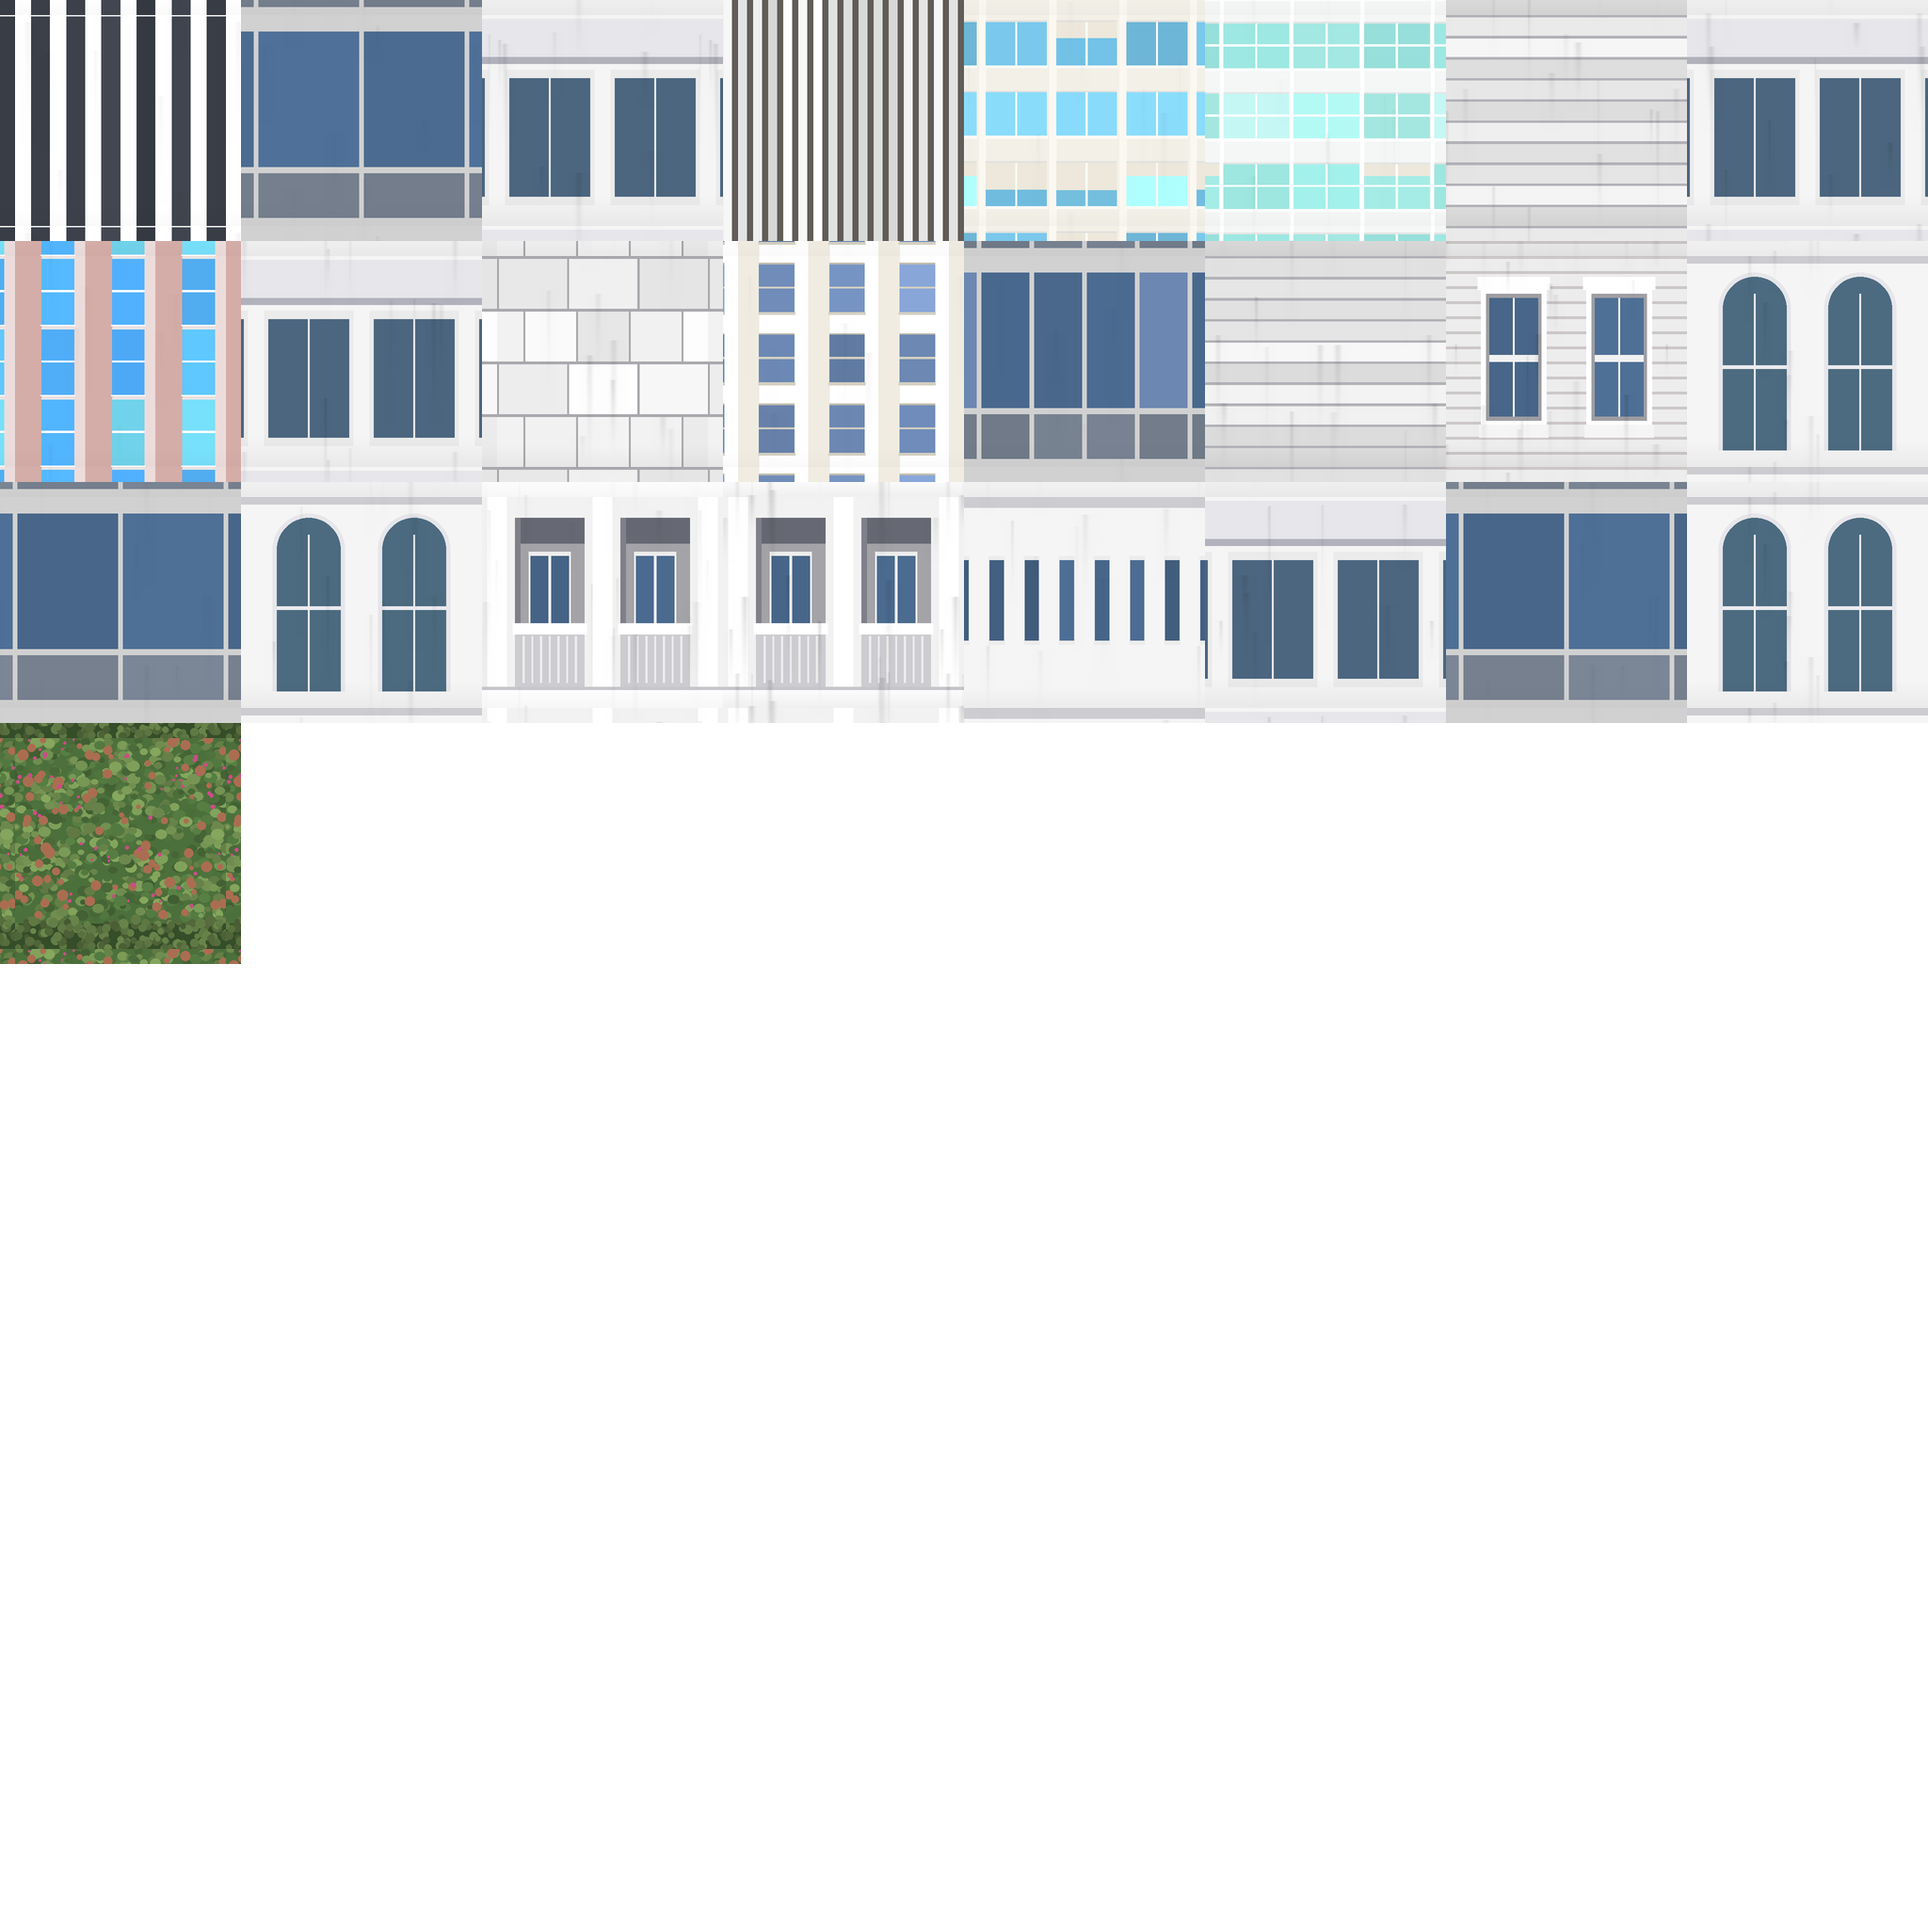
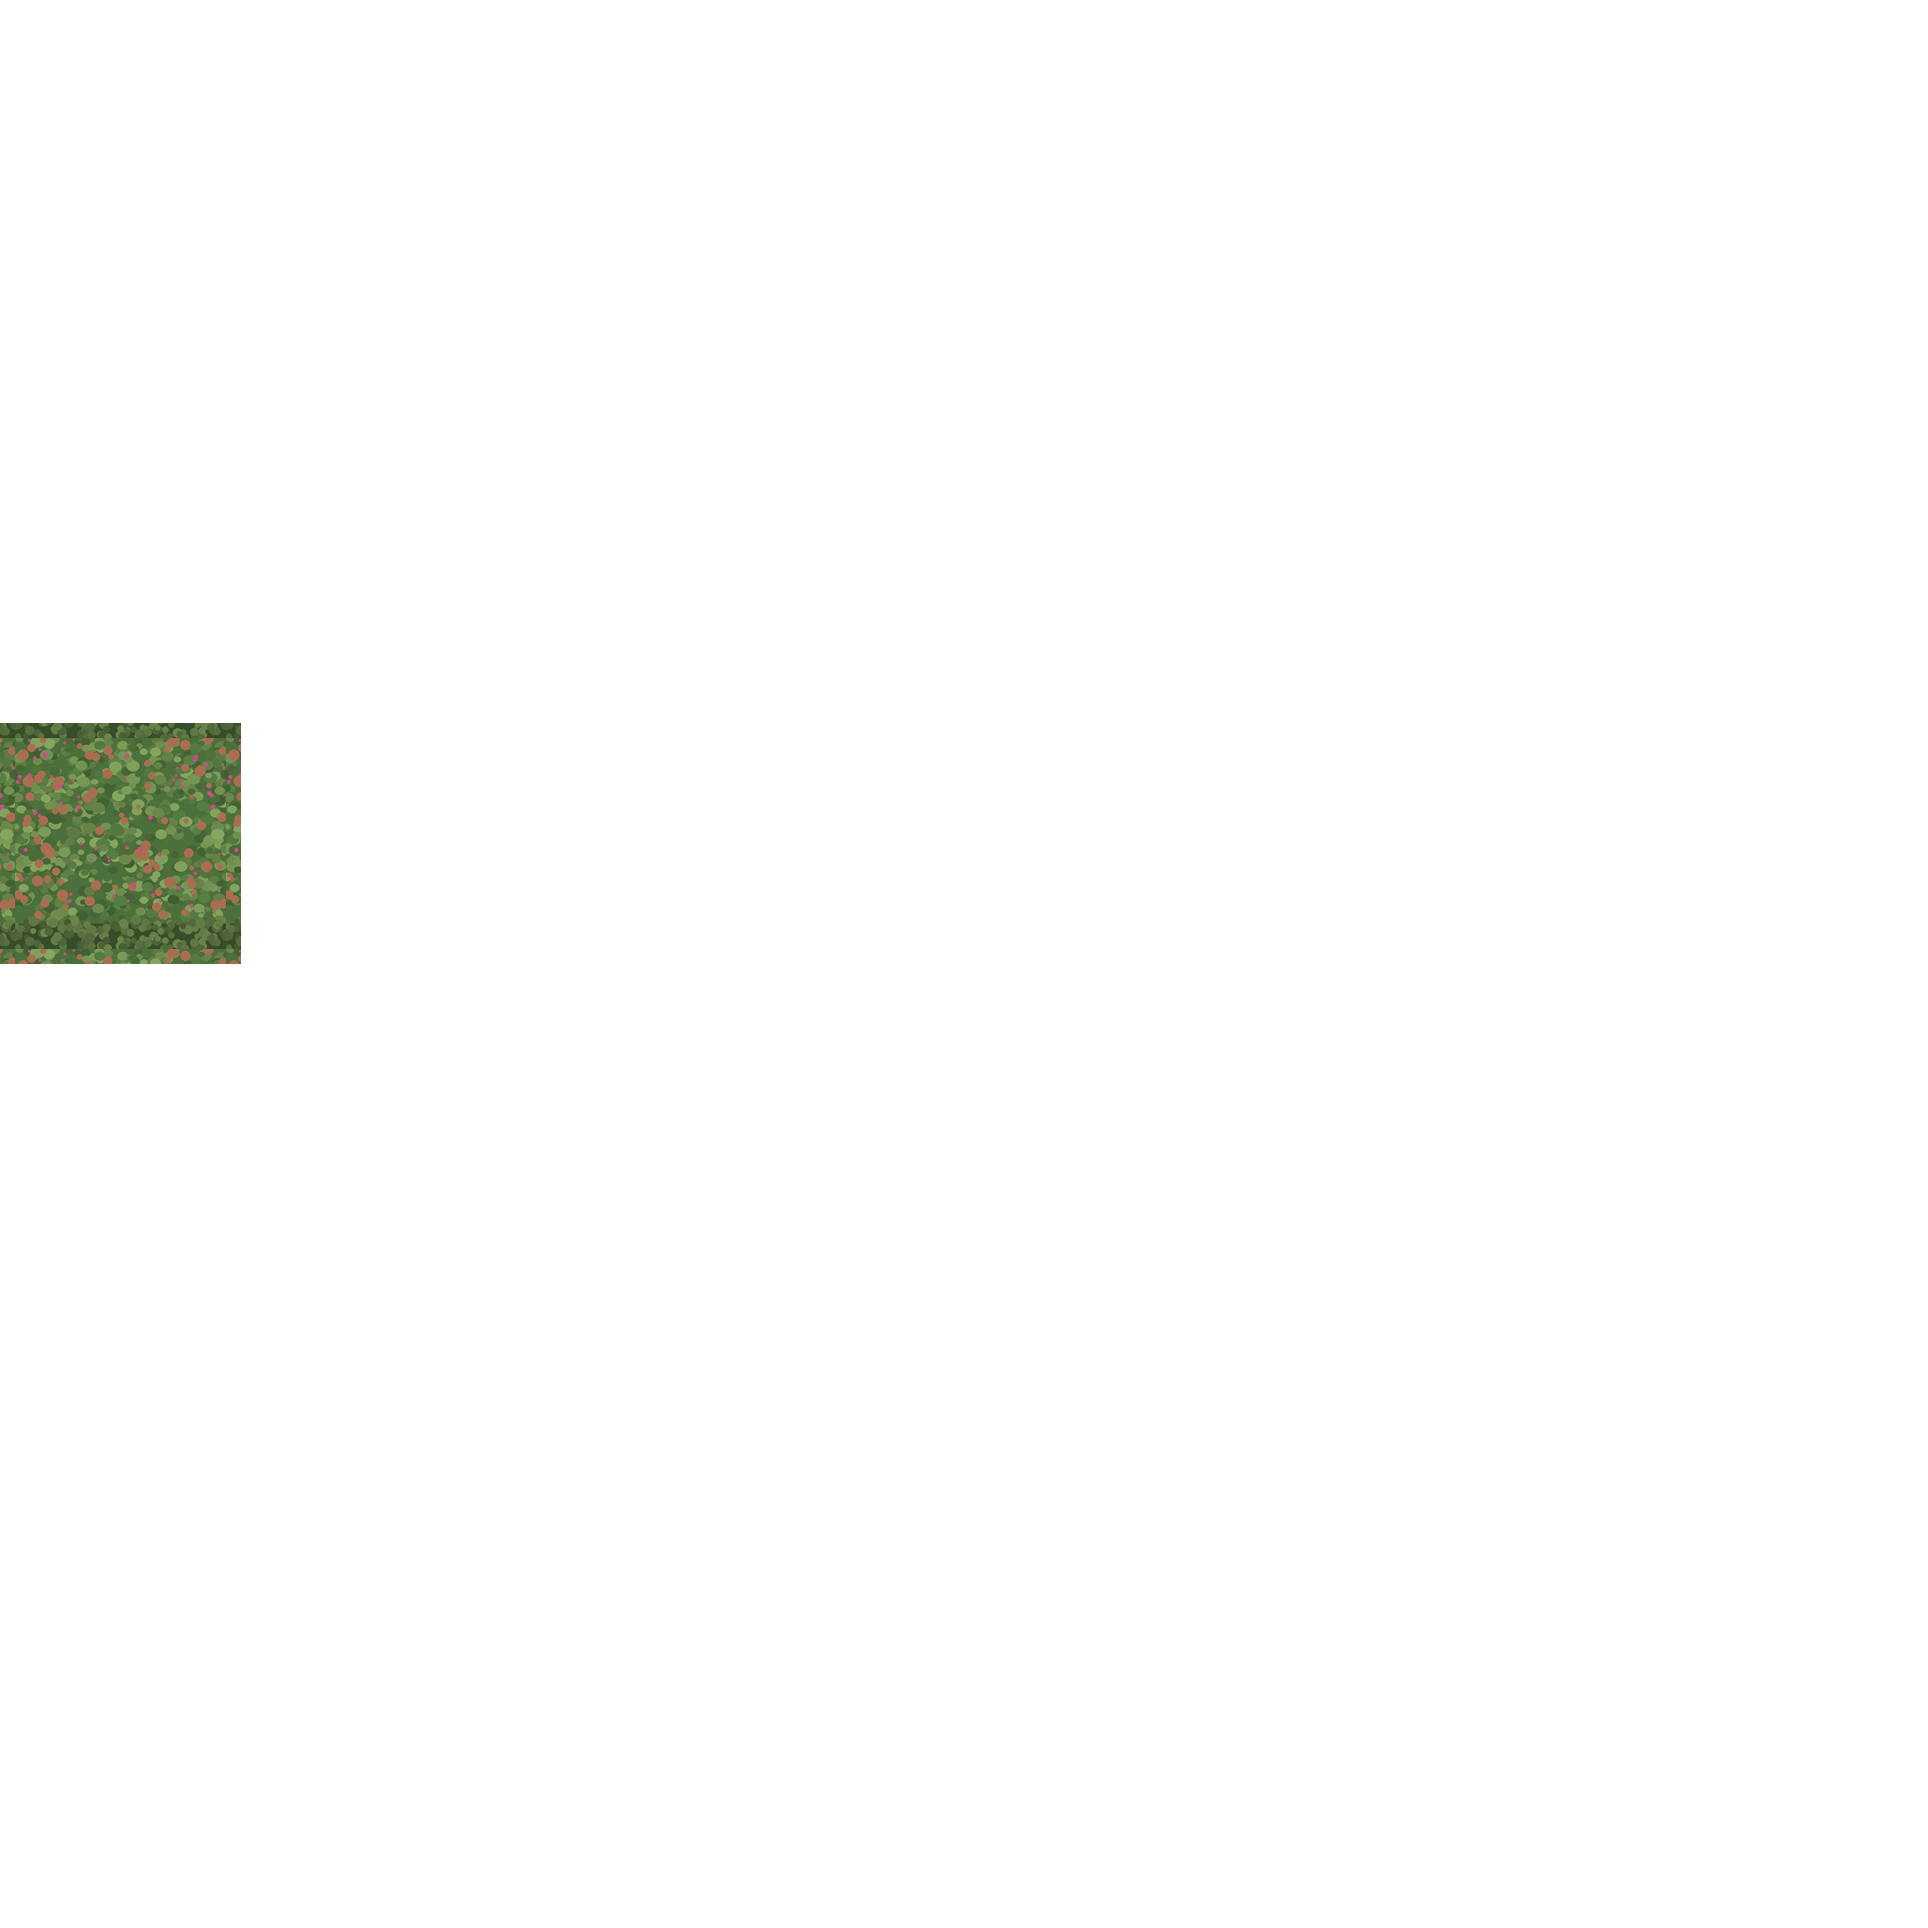
Plain by day: every landmark surface is its plain colour by day (window, pane and arch tiles show only at night as lit light; SS_TEXTURES=1 brings them back); the geometry stays

Changed region(s): [[0.0, 0.0, 1.0, 0.375]]

diff --git a/docs/map-data/landmarks/atlas.py b/docs/map-data/landmarks/atlas.py
@@ -386,14 +386,20 @@ GRID = 16
 # Tiles that belong to one landmark (landmarks/sheets/*.json, drawn by tiles_lib.py): from 100 up, in the order the sheets are read.
 CUSTOM_BASE = 100
 CUSTOM = []          # (name, day image function, night image function)
+KEEP_DAY = set()     # custom tiles whose day picture is the colour itself (ivy): they are not flattened
+# By day every surface is its plain colour; the windows, panes and arches of the tiles show only at night, as lit light (the emissive atlas). SS_TEXTURES=1 brings the tiles back by day.
+PLAIN_DAY = not __import__('os').environ.get('SS_TEXTURES')
+FLAT_KEEP = {8} | set(range(16, 64)) | {80, 81, 82, 83, 84}      # signs, glow bands and the apron keep their picture
 
 
-def register_custom(name, day, night):
+def register_custom(name, day, night, keep_day=False):
     """Give a landmark's own tile an id (100 and up) and remember how to draw it."""
     for i, (n, _, _) in enumerate(CUSTOM):
         if n == name:
             return CUSTOM_BASE + i
     CUSTOM.append((name, day, night))
+    if keep_day:
+        KEEP_DAY.add(len(CUSTOM) - 1)
     return CUSTOM_BASE + len(CUSTOM) - 1
 
 
@@ -404,6 +410,8 @@ def build(outdir):
     pad = (CELL - INNER) / 2 / (CELL * GRID)
     def put(k, day, night):
         col, row = k % GRID, k // GRID
+        if PLAIN_DAY and k not in FLAT_KEEP:
+            day = Image.new('RGB', day.size, (255, 255, 255))
         A.paste(periodic(day).convert('RGBA'), (col * CELL, row * CELL))
         E.paste(periodic(night).convert('RGBA'), (col * CELL, row * CELL))
         rects[k] = [col / GRID + pad, row / GRID + pad, INNER / (CELL * GRID), INNER / (CELL * GRID)]
@@ -423,7 +431,10 @@ def build(outdir):
         raise SystemExit('too many own tiles for the fine atlas (%d, at most %d)' % (len(CUSTOM), HERO_GRID * HERO_GRID))
     for i, (n, day, night) in enumerate(CUSTOM):
         col, row = i % HERO_GRID, i // HERO_GRID
-        A2.paste(periodic(day(), HERO_INNER, HERO_CELL).convert('RGBA'), (col * HERO_CELL, row * HERO_CELL))
+        dimg = day()
+        if PLAIN_DAY and i not in KEEP_DAY:
+            dimg = Image.new('RGB', dimg.size, (255, 255, 255))
+        A2.paste(periodic(dimg, HERO_INNER, HERO_CELL).convert('RGBA'), (col * HERO_CELL, row * HERO_CELL))
         E2.paste(periodic(night(), HERO_INNER, HERO_CELL).convert('RGBA'), (col * HERO_CELL, row * HERO_CELL))
         rects[CUSTOM_BASE + i] = [col / HERO_GRID + pad2, row / HERO_GRID + pad2, HERO_INNER / (HERO_CELL * HERO_GRID), HERO_INNER / (HERO_CELL * HERO_GRID)]
     ids = variant_ids()

diff --git a/docs/map-data/landmarks/tiles_lib.py b/docs/map-data/landmarks/tiles_lib.py
@@ -381,6 +381,6 @@ def register(slug, name, spec, ref='FFFFFF'):
         kw['ref'] = ref
         kw.setdefault('bay_w', spec['m'][0] / kw.get('bays', 3))
     full = '%s/%s' % (slug, name)
-    tid = atlas.register_custom(full, lambda: fn(False, **kw), lambda: fn(True, **kw))
+    tid = atlas.register_custom(full, lambda: fn(False, **kw), lambda: fn(True, **kw), keep_day=(kind == 'ivy'))
     meshlib.register_material(full, tid, tuple(spec.get('m', (6.4, 3.4))), bool(spec.get('fit', False)), bool(spec.get('graded', False)))
     return full
